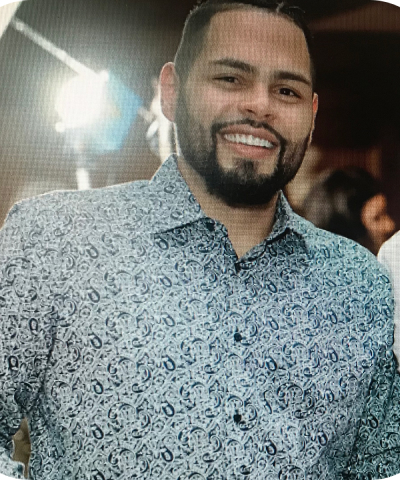
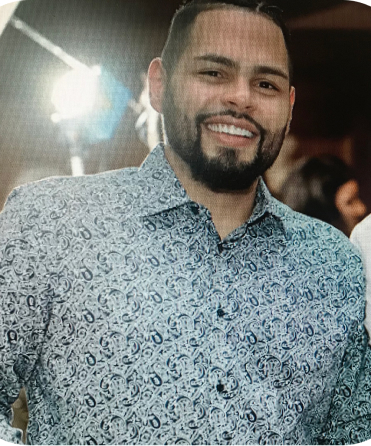
will restyle images and sizes

diff --git a/awaken_chef.html b/awaken_chef.html
@@ -17,7 +17,7 @@
 <body>
 <header>
     <div>
-    <img src="img/logo.png" alt="romero">
+    <img id="logo" src="img/logo.png" alt="romero">
     <div><h1>RomeroDesign.Net</h1></div>
     </div>
 
@@ -54,7 +54,7 @@
             <br>how does a user find an App that meets their needs 
             <br>and helps take the stress out of the kitchen? </p>
     <div>
-        <picture><source srcset="img/awaken/iphone_1mock1x.jpg" media="(max-width:767px)">
+        <picture ><source id="mockup"srcset="img/awaken/iphone_1mock1x.jpg" media="(max-width:767px)">
             <img src="img/awaken/iphone_1mock2x.jpg" alt="photo"> </picture>
     </div>
         <h2> The Goal</h2>
@@ -72,7 +72,7 @@
              critical questions to construct user personas. </p>
         
         <div>
-                <picture><source srcset="img/awaken/iphone_2mock1x.jpg" media="(max-width:767px)">
+                <picture><source id="mockup" srcset="img/awaken/iphone_2mock1x.jpg" media="(max-width:767px)">
                     <img src="img/awaken/iphone_2mock2x.jpg" alt="photo"> </picture>
         </div>
 
@@ -115,7 +115,7 @@
                 </ul>
             </div>
         <div>
-                <picture><source srcset="img/awaken/visual_reaserch1x.jpg" media="(max-width:767px)">
+                <picture><source id="mockup"srcset="img/awaken/visual_reaserch1x.jpg" media="(max-width:767px)">
                     <img src="img/awaken/visual_reaserch2x.jpg" alt="photo"> </picture>
         </div>
          
@@ -139,7 +139,7 @@
             <p> Creating the User Personas helped me keep the user needs front and center, 
                 while designing tools for them to achieve specific tasks. </p>
         <div>
-                    <picture><source srcset="img/awaken/user_persona1x.jpg" media="(max-width:767px)">
+                    <picture><source id="mockup"srcset="img/awaken/user_persona1x.jpg" media="(max-width:767px)">
                         <img src="img/awaken/user_persona2x.jpg" alt="photo"> </picture>
         </div>
 
@@ -149,7 +149,7 @@
         <h2> Flow Map</h2>
             <p> The User Flow of the design is the foundation of the web app; it will show how the user will travel through the app.  </p>
         <div>
-                    <picture><source srcset="img/awaken/flowchart_1x.jpg" media="(max-width:767px)">
+                    <picture><source id="mockup"srcset="img/awaken/flowchart_1x.jpg" media="(max-width:767px)">
                         <img src="img/awaken/flowchart_2x.jpg" alt="photo"> </picture>
         </div>
 
@@ -160,7 +160,7 @@
             <p> Using the Crazy 8s method of exploratory sketching, I was able to design low-fidelity wireframes 
                 for each one of the page screens.   </p>
         <div>
-                    <picture><source srcset="img/awaken/lowfi_1x.jpg" media="(max-width:767px)">
+                    <picture><source id="mockup"srcset="img/awaken/lowfi_1x.jpg" media="(max-width:767px)">
                         <img src="img/awaken/lowfi_2x.jpg" alt="photo"> </picture>
         </div>
 
@@ -171,7 +171,7 @@
             <p> While working through and creating the High-Fidelity wireframes, 
                 I settled on the final elements that will brand the Awaken Chef web app. </p>
         <div>
-                    <picture><source srcset="img/awaken/interface_design1x.jpg" media="(max-width:767px)">
+                    <picture><source id="mockup"srcset="img/awaken/interface_design1x.jpg" media="(max-width:767px)">
                         <img src="img/awaken/interface_design2x.jpg" alt="photo"> </picture>
         </div>
 
@@ -181,7 +181,7 @@
         <h2> High-Fidelity Wireframes</h2>
             <p> After incorporating all the visual aspects into the wireframes, these are the final desings.   </p>
         <div>
-                    <picture><source srcset="img/awaken/iphone_7mock1x.jpg" media="(max-width:767px)">
+                    <picture><source id="mockup"srcset="img/awaken/iphone_7mock1x.jpg" media="(max-width:767px)">
                         <img src="img/awaken/iphone_7mock2x.jpg" alt="photo"> </picture>
         </div>
 
@@ -191,14 +191,14 @@
         <h2> Responsive Design</h2>
             <p> Awaken Chef has a responsive design for easy access no matter what device your using! </p>
         <div>
-                    <picture><source srcset="img/awaken/responsive_mock1x.jpg" media="(max-width:767px)">
+                    <picture><source id="mockup"srcset="img/awaken/responsive_mock1x.jpg" media="(max-width:767px)">
                         <img src="img/awaken/responsive_mock2x.jpg" alt="photo"> </picture>
         </div>
 
     </div>
 
     <div>
-        <picture><source srcset="img/awaken/thanks_1x.svg" media="(max-width:767px)">
+        <picture><source id="mockup"srcset="img/awaken/thanks_1x.svg" media="(max-width:767px)">
             <img src="img/awaken/thanks_2x.svg" alt="photo"> </picture>
     </div>
 
@@ -209,12 +209,12 @@
     <h2>GET IN TOUCH</h2>
     <p>If your intrested in discussing more opportunities. Please get in touch!</p>
     <div>
-        <a href="mailto:romerofinance10@gmail.com">Email Me</a>
+        <h3><a href="mailto:romerofinance10@gmail.com">Email Me</a></h3>
     </div>
 
     <div>
         <a href="https://www.linkedin.com/in/robertoromero" target="_blank">
-            <img src="img/linked_in_logo.svg" alt="Linked In"></a>
+            <img id="linked_logo" src="img/linked_in_logo.svg" alt="Linked In"></a>
     </div>
     
     <div>

diff --git a/index.html b/index.html
@@ -16,7 +16,7 @@
 <body>
 <header>
     <div>
-    <img src="img/logo.png" alt="romero">
+    <img id="logo" src="img/logo.png" alt="romero">
     <div><h1>RomeroDesign.Net</h1></div>
     </div>
 
@@ -47,7 +47,7 @@
 
 <div>
     <div>
-        <picture><source srcset="img/awaken/awaken_chef1x.jpg" media="(max-width:767px)">
+        <picture id="mockup"><source srcset="img/awaken/awaken_chef1x.jpg" media="(max-width:767px)">
         <img src="img/awaken/awaken_chef3x.jpg" alt="chef">  
         </picture> 
     </div>
@@ -57,7 +57,7 @@
             <p>Awaken Chef is a responsive web app, in which I served as the UX \ UI Designer. 
             <p>It allows its users to take their cooking skills to the next level by providing all the necessary<p> 
             information needed to move with confidence in a kitchen. Awaken Chef is a users right hand in the kitchen!</p> 
-            <a href="awaken_chef.html"> View Project</a>
+            <h4><a href="awaken_chef.html"> View Project</a></h4>
     </div>
 
 </div>
@@ -65,7 +65,7 @@
 
 <div>
     <div>
-        <picture><source srcset="img/grow/grow_app1x.jpg" media="(max-width:767px)">
+        <picture id="mockup"><source srcset="img/grow/grow_app1x.jpg" media="(max-width:767px)">
         <img src="img/grow/grow_app2x.jpg" alt="grow">  
         </picture> 
     </div>
@@ -75,7 +75,7 @@
             <p>Grow Money App is a mobile app with a responsive design in which I served as the UX \ UI Designer.<p>
             Grow allows its users to links bank accounts in order to create savings goals and plan their budgets. <p>
             By sending the user reminders and motivational messages it helps them stay on track to achieve their goals.</p> 
-            <a href="#"> View Project</a>
+            <h4><a href="#"> View Project</a></h4>
     </div>
 
 
@@ -91,12 +91,12 @@
     <h2>GET IN TOUCH</h2>
     <p>If your intrested in discussing more opportunities. Please get in touch!</p>
     <div>
-        <a href="mailto:romerofinance10@gmail.com">Email Me</a>
+       <h3> <a href="mailto:romerofinance10@gmail.com">Email Me</a></h3>
     </div>
 
     <div>
         <a href="https://www.linkedin.com/in/robertoromero" target="_blank">
-            <img src="img/linked_in_logo.svg" alt="Linked In"></a>
+            <img id="linked_logo" src="img/linked_in_logo.svg" alt="Linked In"></a>
     </div>
     
     <div>

diff --git a/about.html b/about.html
@@ -17,7 +17,7 @@
 <body>
 <header>
     <div>
-    <img src="img/logo.png" alt="romero">
+    <img id="logo" src="img/logo.png" alt="romero">
     <div><h1>RomeroDesign.Net</h1></div>
     </div>
 
@@ -50,7 +50,7 @@
                 <p>This upbringing along with my passion for artistic expression drove me to my career as a Chef, where I was able to rise up through the ranks to hold the title of Executive Chef.
                 <p>After over a decade in the hospitality industry my Leadership abilities, Problem Solving skills and Resourcefulness are second to none. 
                 <p>I now bring my skills to the digital world with the goal to become a top level designer that will strive to create products that serve and care for user needs all the while pushing the industry standard.</p>
-                <a href="files/romero_resume.pdf" target="_blank">View my Resume</a>
+                <h3><a href="files/romero_resume.pdf" target="_blank">View my Resume</a></h3>
     </div>
     <div>
             <h2> Skills & Tools </h2>
@@ -77,12 +77,12 @@
     <h2>GET IN TOUCH</h2>
     <p>If your intrested in discussing more opportunities. Please get in touch!</p>
     <div>
-        <a href="mailto:romerofinance10@gmail.com">Email Me</a>
+       <h3><a href="mailto:romerofinance10@gmail.com">Email Me</a></h3>
     </div>
 
     <div>
         <a href="https://www.linkedin.com/in/robertoromero" target="_blank">
-            <img src="img/linked_in_logo.svg" alt="Linked In"></a>
+            <img  id="linked_logo"src="img/linked_in_logo.svg" alt="Linked In"></a>
     </div>
     
     <div>

diff --git a/css/styles.css b/css/styles.css
@@ -2,28 +2,29 @@ body{
     background-color: #Ffffff;
     font-family:'Montserrat', sans-serif;
     font-family: 'Poiret One', sans;
-    font-size: 24px; /* set font size to 24px*/
+    font-size: 28px; /* set font size to 24px*/
     font-weight: 400; /* sets font weight to 400 */
     line-height: 1.6; /* sets the line height to 1.6 * the font size */
-    color: #30675D;
+    color: #02273d;
 }
 
 h1, h2, h3, h4 { 
     line-height: 1.4;
 }
 h1{
-    font-size:22px; 
+    font-size:28px; 
     font-size: 2.75em
     font-weight: 400; }
 h2{
-    font-size: 20px;
+    font-size: 24px;
     font-size: 2.25em
     font-weight: 400;}
 h3{
-    font-size: 18px
+    font-size: 20px;
     font-size: 1.75em
     font-weight: 400;}
 h4{
+    font-size: 18px;
     font-size: 1.35em
     font-weight: 400;}
 
@@ -33,5 +34,10 @@ p, ol, ul {
     font-size: 18px; /* set p. text size to 18 px */
     line-height: 1.2; /* set line height to 1.2 times the font size */
     font-weight: 200; /* set text weight to 200 */
-    color: #045684; 
+    color: #30675D; 
 }
+
+#logo{ width: 15%}
+#linked_logo{ width:10%}
+source #mockup {width:100%}
+source{width:100%}
